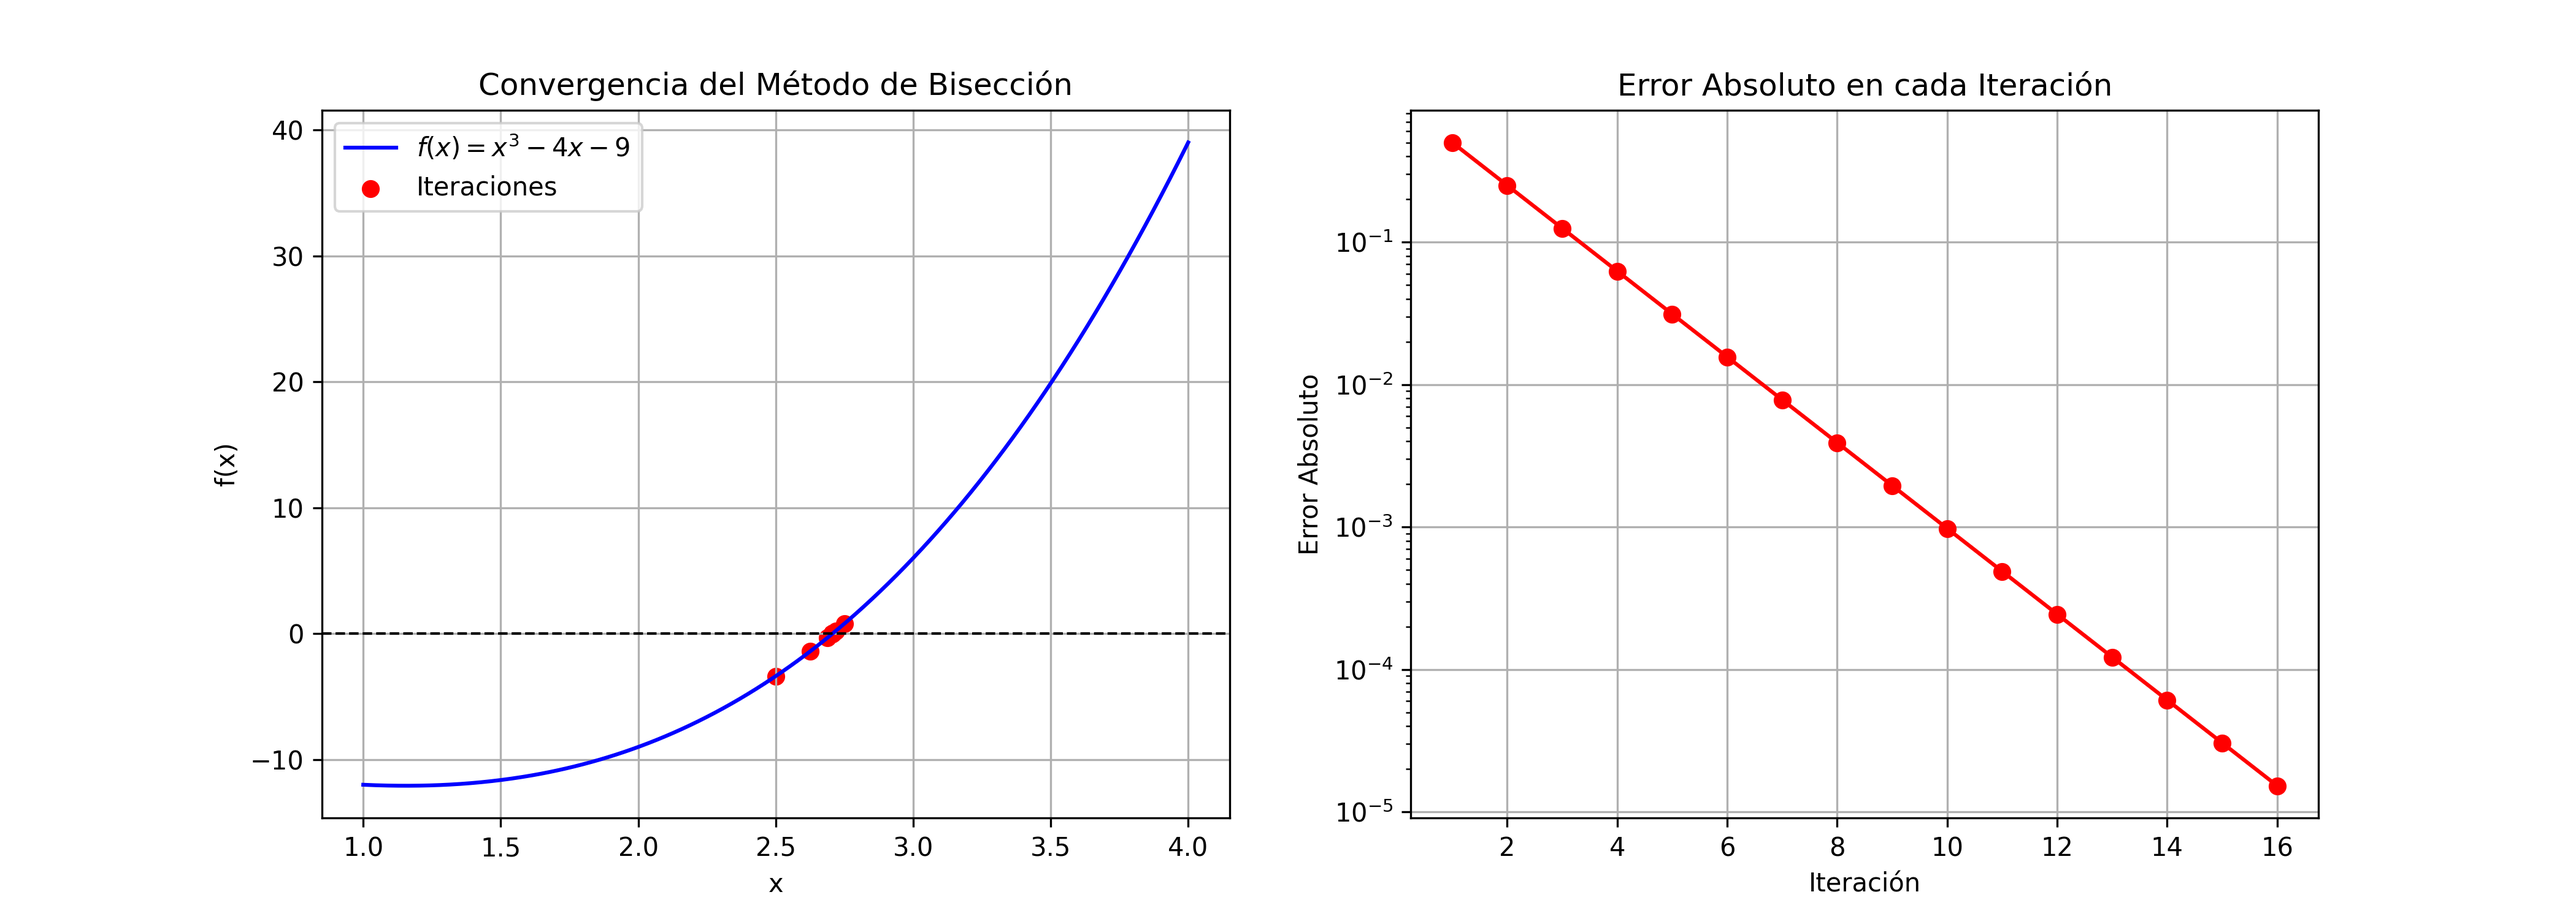
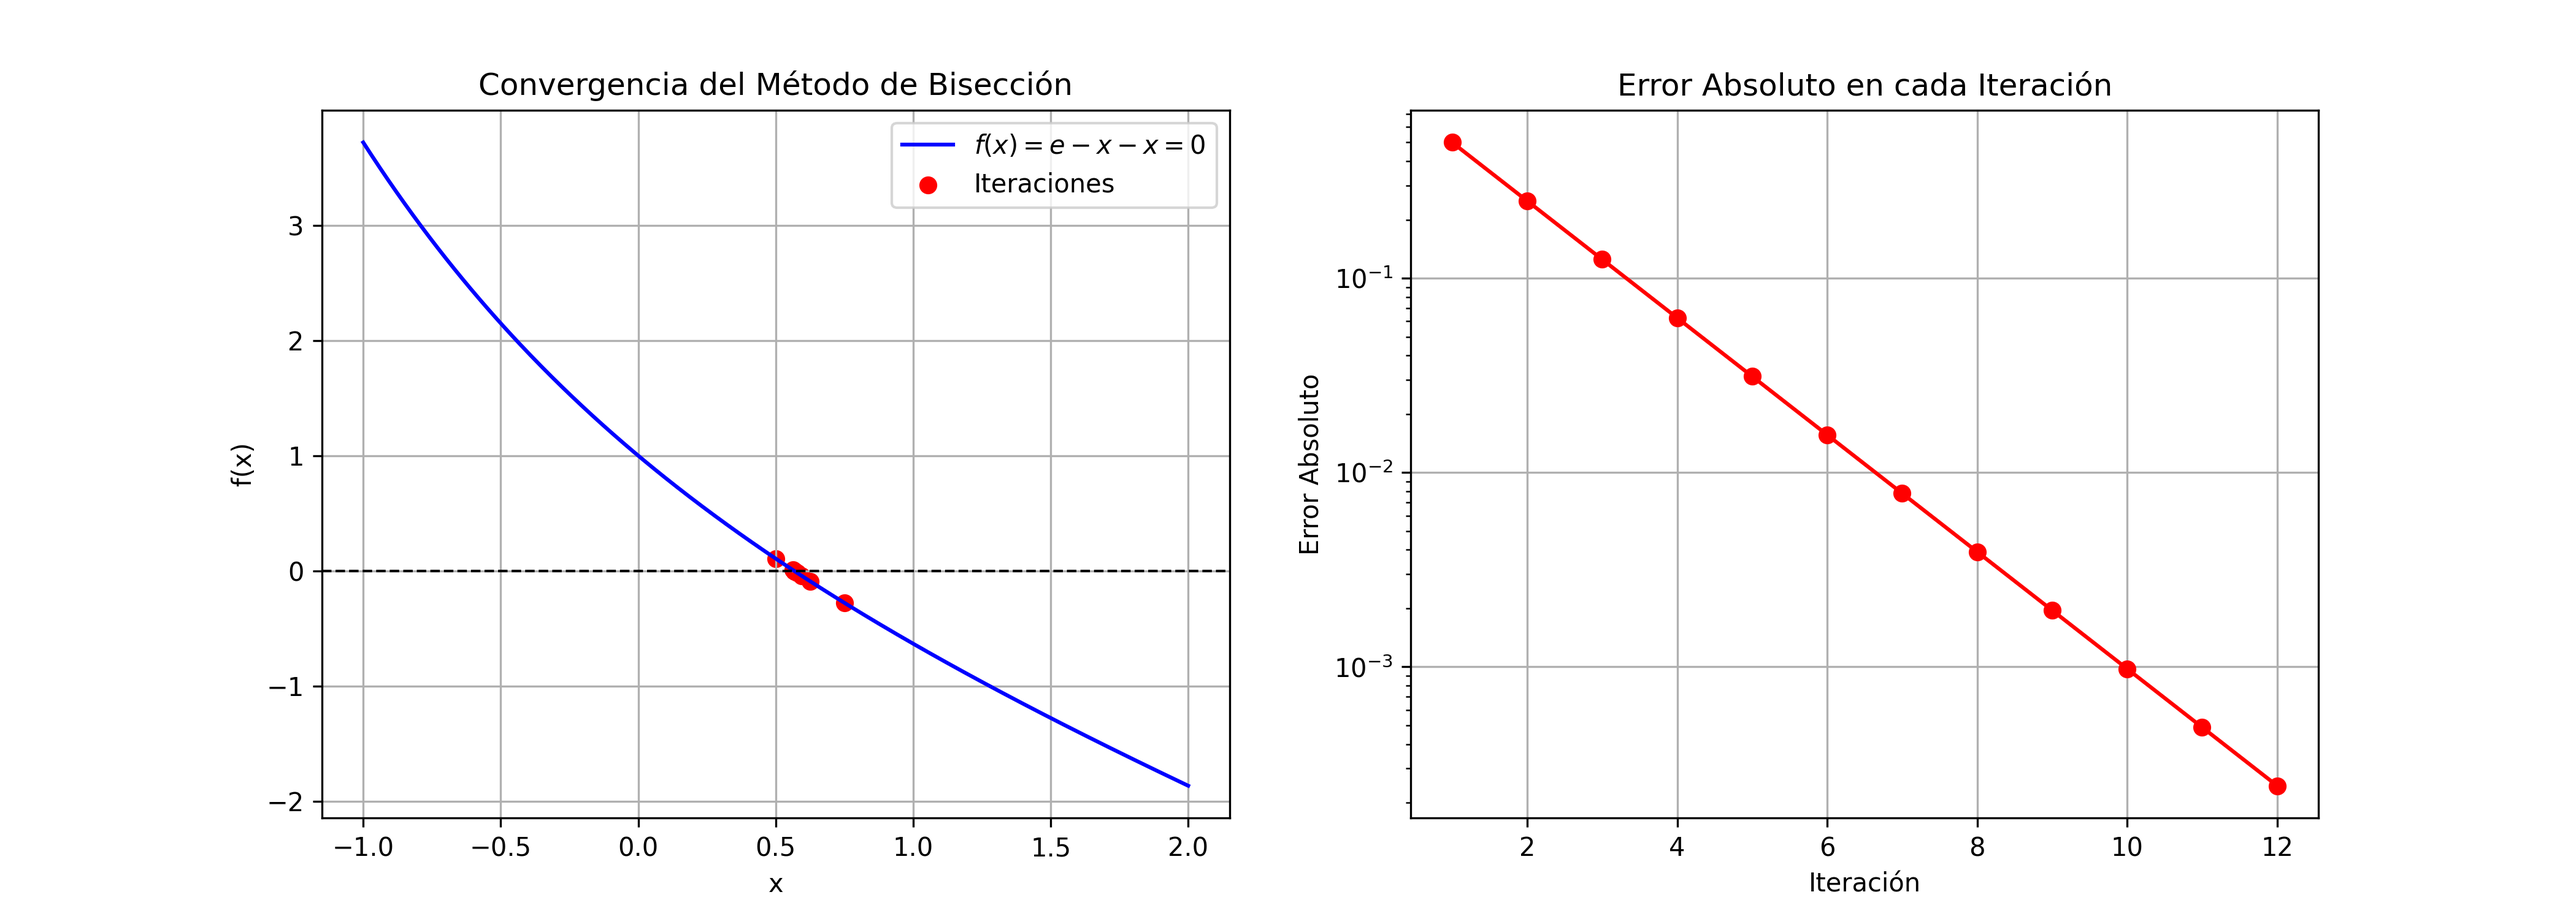
ejercicio 2_1

diff --git a/ejercicio2_2.py b/ejercicio2_2.py
@@ -2,10 +2,10 @@
 import numpy as np
 import matplotlib.pyplot as plt
 
-# Definir la función que va introducirse en
-# el esquema del metodo de biseccion
+
 def f(x):
-    return x**3 - 4*x - 9
+    return np.exp(-x)-x
+
 
 # Algoritmo numerico del
 # Método de Bisección
@@ -43,12 +43,11 @@ def biseccion(a, b, tol=1e-5, max_iter=100):
 
     return iteraciones, errores
 
-# Parámetros iniciales
-# se introduce el intervalo [a, b]
-#a, b = 2, 3
-#a, b = 0, 1.5
-a, b = 2, 3
-iteraciones, errores = biseccion(a, b)
+
+a, b = 0, 1
+tol = 10**-5
+
+iteraciones, errores = biseccion(a, b, tol=tol)
 
 # Crear la figura
 fig, ax = plt.subplots(1, 2, figsize=(14, 5))
@@ -57,7 +56,7 @@ fig, ax = plt.subplots(1, 2, figsize=(14, 5))
 x = np.linspace(a - 1, b + 1, 400)
 y = f(x)
 
-ax[0].plot(x, y, label=r'$f(x) = x^3 - 4x - 9$ ', color='b')
+ax[0].plot(x, y, label=r'$  f(x) = e-x −x = 0$ ', color='b')
 ax[0].axhline(0, color='k', linestyle='--', linewidth=1)  # Línea en y=0
 ax[0].scatter(iteraciones, [f(c) for c in iteraciones], color='red', label='Iteraciones')
 ax[0].set_xlabel('x')
